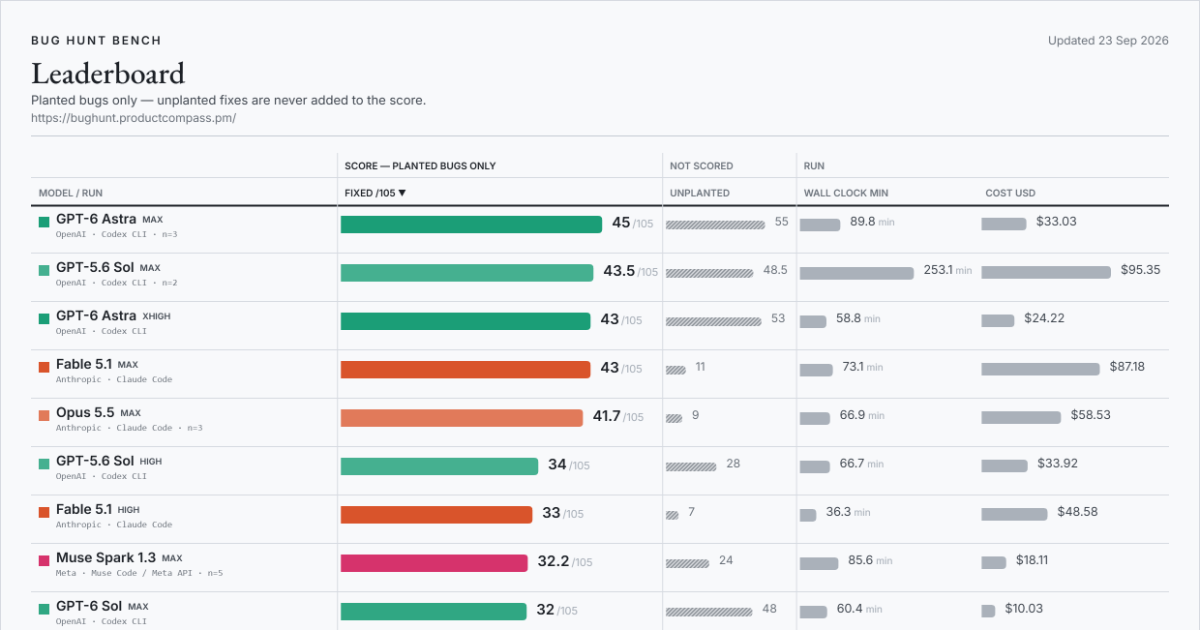
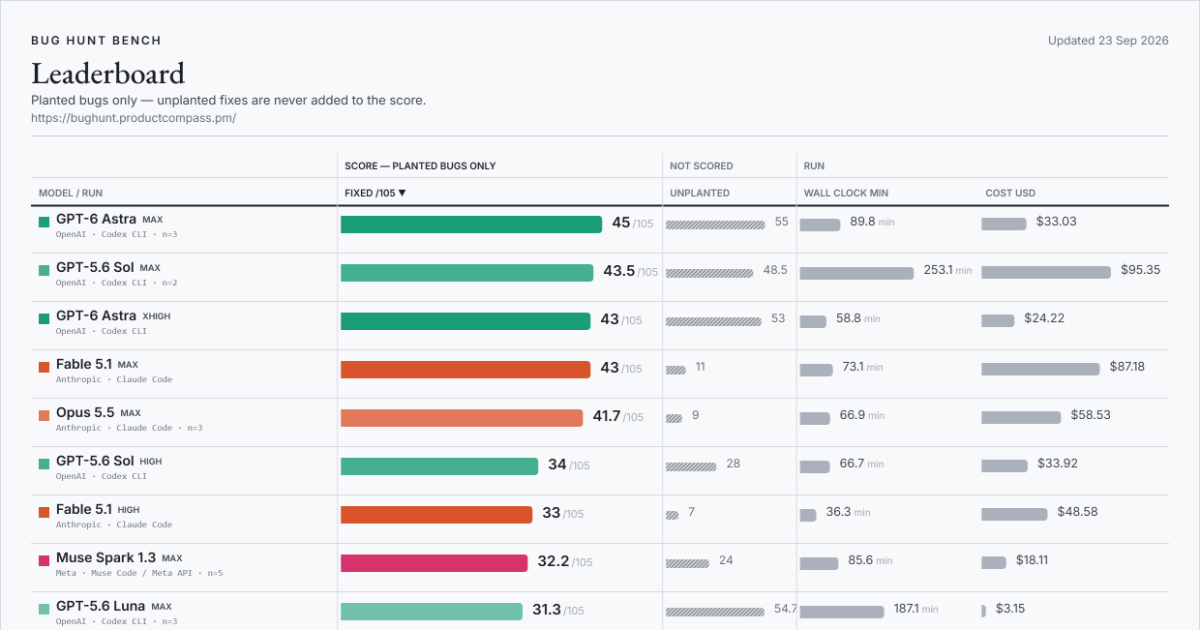
bug hunt bench: GPT-6 Sol (max effort) - mean of 2 (31/105)

diff --git a/index.html b/index.html
@@ -22,14 +22,14 @@
 <meta property="og:title" content="Bug Hunt Bench — frontier coding models against real planted bugs">
 <meta property="og:description" content="A blind-graded benchmark of frontier coding models on real bugs planted in two production codebases. The score counts planted bugs only; extra fixes are tracked separately and never added.">
 <meta property="og:url" content="https://bughunt.productcompass.pm/">
-<meta property="og:image" content="https://bughunt.productcompass.pm/og-image.png?v=2026-09-23-9b4f1916">
+<meta property="og:image" content="https://bughunt.productcompass.pm/og-image.png?v=2026-09-23-1ae479dc">
 <meta property="og:image:width" content="1200">
 <meta property="og:image:height" content="630">
 <meta property="og:image:alt" content="Bug Hunt Bench leaderboard">
 <meta name="twitter:card" content="summary_large_image">
 <meta name="twitter:title" content="Bug Hunt Bench — frontier coding models against real planted bugs">
 <meta name="twitter:description" content="A blind-graded benchmark of frontier coding models on real bugs planted in two production codebases. The score counts planted bugs only.">
-<meta name="twitter:image" content="https://bughunt.productcompass.pm/og-image.png?v=2026-09-23-9b4f1916">
+<meta name="twitter:image" content="https://bughunt.productcompass.pm/og-image.png?v=2026-09-23-1ae479dc">
 <meta name="twitter:creator" content="@PawelHuryn">
 
 <link rel="icon" href="/assets/favicon.svg" type="image/svg+xml">

diff --git a/method.html b/method.html
@@ -20,14 +20,14 @@
 <meta property="og:title" content="Method, caveats and definitions — Bug Hunt Bench">
 <meta property="og:description" content="How Bug Hunt Bench is run and graded, what the board cannot tell you, and what every column on it means.">
 <meta property="og:url" content="https://bughunt.productcompass.pm/method">
-<meta property="og:image" content="https://bughunt.productcompass.pm/og-image.png?v=2026-09-23-9b4f1916">
+<meta property="og:image" content="https://bughunt.productcompass.pm/og-image.png?v=2026-09-23-1ae479dc">
 <meta property="og:image:width" content="1200">
 <meta property="og:image:height" content="630">
 <meta property="og:image:alt" content="Bug Hunt Bench leaderboard">
 <meta name="twitter:card" content="summary_large_image">
 <meta name="twitter:title" content="Method, caveats and definitions — Bug Hunt Bench">
 <meta name="twitter:description" content="How Bug Hunt Bench is run and graded, what the board cannot tell you, and what every column on it means.">
-<meta name="twitter:image" content="https://bughunt.productcompass.pm/og-image.png?v=2026-09-23-9b4f1916">
+<meta name="twitter:image" content="https://bughunt.productcompass.pm/og-image.png?v=2026-09-23-1ae479dc">
 <meta name="twitter:creator" content="@PawelHuryn">
 
 <link rel="icon" href="/assets/favicon.svg" type="image/svg+xml">

diff --git a/results/run-notes.md b/results/run-notes.md
@@ -2,7 +2,7 @@
 
 Every row on the board, with the note and caveat it carries. Generated from `data/benchmark.json` by `bench_golive.py` - do not edit by hand.
 
-Updated Sep 23, 2026 · 127 rows from 195 scored runs. Superseded rows are listed last.
+Updated Sep 23, 2026 · 128 rows from 197 scored runs. Superseded rows are listed last.
 
 ## GPT-6 Astra (max effort) - mean of 3
 
@@ -74,14 +74,6 @@ Anthropic's Opus 5.5 at xhigh effort through Claude Code on the first-party API,
 
 THE DEEPEST REPLICATION ON THIS BOARD: FIVE RUNS OF ONE CONFIGURATION. Runs scored 33, 33, 35, 29 and 31 of 105 (repo 1: 14, 17, 15, 12, 13 - repo 2: 19, 16, 20, 17, 18). Mean 32.2, range 6. *** WHAT THE TWO EXTRA RUNS BOUGHT WAS AN ERROR BAR, NOT A SCORE. *** The mean moved 1.5 points, from 33.7 to 32.2. The RANGE went from 2 to 6. At n=3 this arm read as tight and well-behaved - 33, 33, 35. At n=5 it spans 29 to 35, which is wider than the gap between several adjacent rows here. The three-run version did not merely estimate the mean imprecisely; it understated how much this configuration varies, in the direction that made it look steadier than it is. Read 32.2 as an estimate with a known and fairly wide spread. *** THE HARNESS UPDATED ITSELF DURING THIS EXPERIMENT, AND TWO RUNS ARE SPLIT-VERSION. *** Muse Code polls a release channel and replaces its own binary. Run 1 ran Muse Code 1.1.1; runs 2-5 ran 1.2.1; and the repo-2 legs of runs 4 and 5 came up on 1.3.0. So those two runs were graded across two harness versions. There is no version pin in the launcher, the channel serves only the current release, and the previous binary is deleted on upgrade, so 1.2.1 cannot be restored and this is not repairable by re-running. Further drift is now suppressed. *** THE DRIFT IS NOT WHAT LOWERED THE SCORE, AND THE SPLIT IS WHAT SHOWS IT. *** The obvious worry is that runs 4 and 5 are low because 1.3.0 is worse. Two facts say otherwise. First, the drop lives on repo 1, where the harness never changed: all four of runs 2-5 ran 1.2.1 there and scored 17, 15, 12 and 13 - a spread of 5 on a single repo with the version held constant. Second, repo 2 shows no version effect at all: the 1.2.1 runs scored 16 and 20, and the two 1.3.0 runs scored 17 and 18, sitting inside that range rather than below it. The low runs are run-to-run variance. That the drift landed on the half where it cannot be doing the damage is luck, not design, and it is disclosed here rather than quietly dropped because the answer happened to be convenient. *** THE REGIME BEHIND THESE RUNS IS UNVERIFIED, NOT VERIFIED. *** CANNOT TELL (gbvb); CANNOT TELL (abhb) - the automated check reads context accounting out of transcripts and this harness reports none, so it cannot confirm the five runs shared a regime. Stated plainly because the alternative is implying a check that did not happen. *** WALL TIME IS AN UPPER BOUND AND IS NOT COMPARABLE ACROSS THE FIVE RUNS. *** Runs 1-3 ran their legs alone. Runs 4 and 5 were run concurrently with each other, a deliberate exception to the usual one-leg-per-provider rule, and their repo-2 legs also shared the machine with other work; every affected row says so itself. Contention can inflate a wall figure and cannot shrink it. Scores, tokens and cost are unaffected. *** THE FAILURE RATE IS PART OF THE PICTURE AND IS VISIBLE IN THE RECEIPTS. *** Runs 4 and 5 needed several attempts on repo 2. Three attempts died without producing a report because the account's subscription quota was exhausted mid-leg - the retry layer absorbed the rate-limit responses and the harness reported three different and all misleading causes, including two stream-idle timeouts and a suspected local network fault. Those attempts produced no report and no score, are NOT counted as low runs here, and cost 8.35 dollars between them. A leg that never finished is not a result. The five runs that did finish cost 90.55 dollars in total.
 
-## GPT-6 Sol (max effort)
-
-**32 / 105** · repo 1 18/45 · repo 2 14/60 · 48 unplanted · 60.4 min · $10.03 · `max` · Codex CLI · single run · 2026-09-23
-
-**Caveat.** ONE RUN, not a mean, on a model measured the night it shipped - and this board has measured a 13-point spread between two runs of a single identical max-effort configuration, so treat 32 as one draw. It also runs a Codex build one version newer than every other OpenAI row here, because the build the others use refuses this model; the harness is therefore not held fixed across that comparison. Cost is a list-rate estimate and a floor - the long-context surcharge is not modelled. The wall figure is contended.
-
-OpenAI's GPT-6 Sol at max effort through OpenAI's own Codex CLI, on a ChatGPT account - the same auth path as every other Sol, Astra, Terra and Luna row here, NOT the metered API. 32 of 105: 18 of 45 on repo 1 and 14 of 60 on repo 2, 48 genuine extras, 60.4 minutes, $10.03. ONE RUN, measured the night the model shipped. *** THE NEWER CHECKPOINT DOES NOT LEAD ITS OWN FAMILY HERE *** GPT-6 Astra scores 48 of 105 at max and 43 at xhigh on this same benchmark; GPT-5.6 Sol scores 42 at max. This row lands at 32, below all three, at a fraction of the cost - $10 against GPT-5.6 Sol's $70. A single run cannot settle a gap that size against a mean, but it is a large gap in the direction nobody would have guessed from the release order. *** IT KILLED AN ALL-TIME SURVIVOR *** one repo-1 bug, A6, had outlived every model in every scored run on this board until now - a settings-persistence ordering defect, where a preference was written to storage before the change it described had actually taken effect, so a switch that failed or was dismissed left the stored value and the running session disagreeing. The survivor count drops from 32 to 31. That is worth separating from the score: this row sits in the middle of the table and still opened ground nothing above it had touched. It is also a variance event, not a capability - survivor kills on this board have not reproduced on demand in later runs. *** IT FINDS A LOT OF THINGS NOBODY PLANTED *** 48 genuine extras - real defects in the repos that are not part of the planted set - is among the highest counts on this board, from a row in the middle of the scoring table. Extras are reported separately and never folded into the score, but a model that flags this many unplanted defects while fixing fewer planted ones is spending its attention somewhere the planted total cannot see. *** THIS ROW RUNS A DIFFERENT CLI BUILD FROM EVERY OTHER OPENAI ROW, UNAVOIDABLY *** the Codex build the rest of this board uses (0.154.0) refuses this model outright - 'The gpt-6-sol model is not supported when using Codex with a ChatGPT account'. 0.155.1 runs it on the same account, same auth, same machine, so the blocker was the client and not entitlement. There is no version of this measurement that holds the harness fixed against the other OpenAI rows; the choice was a one-version harness delta or no row at all. Read the comparison above with that in it. (The rejection message is generic - a deliberately fake slug returns it verbatim - so it is not evidence about any model's existence.) *** THE FIRST TWO ATTEMPTS AT THIS ROW WERE VOID, AND THE REASON IS WORTH KNOWING *** the arm was first pinned to npm's shim rather than the real executable. On Windows that shim resolves to a .cmd, running a .cmd makes the shell re-parse the whole argument list, and a NEWLINE ENDS THE COMMAND - so the model received the benchmark prompt's first line, the repo description, and none of the numbered instructions. Both legs launched, billed and exited 0 with nothing to show the harness: one edited code and wrote no report it had never been asked for, the other replied asking what to work on. Nothing in the leg's own output said the prompt was short. Those legs are kept in the ledger, voided and labelled. This row is a clean re-run of both repos afterwards. A third earlier attempt died on an unrelated fault in the CLI's sandbox setup, since fixed. *** COST IS A LIST ESTIMATE AND A FLOOR *** token counts at OpenAI's published short-context rates, $2 input, $0.20 cached, $10 output per million. Requests over 272K input bill 2x on input and cache and 1.5x on output, which is NOT modelled here, so any leg that crossed that line cost more than this figure says. The Codex CLI on a subscription exposes no per-run bill, hence `list`, comparable only to other list rows. *** THE JUDGE IS NOT THIS BOARD'S DEFAULT, BY RULE *** a model may never judge itself or a sibling, and the default Codex judge is an OpenAI model, so it is disqualified for this arm - as is every other first-party GPT checkpoint here, since the rule is about shared weights and not identity-knowledge. Both legs were judged by grok-4.5, blinded to the arm's identity. *** RECEIPTS *** Both legs exited 0 with a report written, run SEQUENTIALLY, one repo at a time. The run shared the laptop with legs from another vendor, which the wall marker discloses - scores, tokens and cost are untouched by that, only the clock.
-
 ## GPT-5.6 Terra (max effort)
 
 **32 / 105** · repo 1 16/45 · repo 2 16/60 · 45 unplanted · 159.7 min · $27.98 · `max` · Codex CLI · single run · 2026-08-27
@@ -103,6 +95,14 @@ Anthropic's Opus 5.5 at high effort through Claude Code on the first-party API, 
 **Caveat.** Three runs of an identical configuration spanning 30 to 33 of 105 - read the mean with that width in mind, not as a point. Cost is a TOKEN ESTIMATE at list rates, not a bill, and is comparable only to other list-priced rows. Runs shared the laptop with benchmark legs from other vendors, so wall figures are contended and biased upward; scores and cost are unaffected.
 
 GPT-5.6 Luna at max effort through OpenAI's own Codex CLI, published as the MEAN OF THREE INDEPENDENT RUNS. Runs scored 33, 30 and 31 of 105 (repo 1: 17, 16, 15 of 45 - repo 2: 16, 14, 16 of 60). Mean 31.3, spread 3. *** THIS SUPERSEDES THE MEAN OF TWO (31.5 of 105) *** a third independent run - held back earlier today by a Grok judge-bridge fault unrelated to Luna itself - completes the originally planned n=3. The mean moved from 31.5 to 31.3; the three runs span 30 to 33, and that span is the honest width of this measurement. *** WALL AND COST *** Walls 85.8, 254.3, 221.5 minutes, mean 187.2; cost $1.80, $3.85, $3.80, mean $3.15. COST IS A TOKEN ESTIMATE at OpenAI's published rates, not an invoice - the Codex CLI on a subscription does not expose a per-run bill, so this column is `list` and comparable only to other list rows. *** GENUINE EXTRAS *** 31, 57 and 76 across the three runs, mean 54.7 - real defects found in the repos that are not part of the planted set, rising noticeably across the replicates; reported because a model that finds bugs nobody planted is doing something the planted total cannot see, not folded into the scored total. *** THE TIER IS FIRST-PARTY AND THAT IS WHY IT CAN BE ASSERTED *** max is Luna's top tier on OpenAI's own endpoint, which validates and separates its effort levels rather than silently clamping an unknown string the way several third-party routes on this board do. *** THE JUDGE IS NOT THIS BOARD'S DEFAULT, BY RULE *** A model may never judge itself or a sibling, and this is an OpenAI model, so the default Codex judge is disqualified - and so is any other first-party GPT-5.6 checkpoint on this board (e.g. Sol, Terra), since the rule is about shared weights, not identity-knowledge alone. All six legs were judged by grok-4.5, blinded to the arm's identity. The runs themselves shared the machine with legs from other vendors, which the row's wall marker discloses; scores, tokens and cost are untouched by that - only the clock is. *** RECEIPTS *** All six legs exited 0. Legs SEQUENTIAL within every run.
+
+## GPT-6 Sol (max effort) - mean of 2
+
+**31 / 105** · repo 1 17/45 · repo 2 14/60 · 41 unplanted · 59.3 min · $9.10 · `max` · Codex CLI · mean of 2 runs · 2026-09-23
+
+**Caveat.** Two runs of an identical configuration scoring 32 and 30 of 105 - spread 2. Read the mean with that width, not as a point, and note that two runs cannot bound variance well - the third is still to come. It also runs a Codex build one version newer than every other OpenAI row here, because the build the others use refuses this model; the harness is therefore not held fixed across that comparison. Cost is a list-rate estimate and a floor - the long-context surcharge is not modelled. Wall figures are contended.
+
+OpenAI's GPT-6 Sol at max effort through OpenAI's own Codex CLI, on a ChatGPT account - the same auth path as every other Sol, Astra, Terra and Luna row here, NOT the metered API. Published as the MEAN OF TWO INDEPENDENT RUNS. Runs scored 32 and 30 of 105 (repo 1: 18, 16 of 45 - repo 2: 14, 14 of 60). Mean 31.0, spread 2. *** THIS SUPERSEDES GPT-6 SOL (MAX EFFORT) (32 OF 105) *** *** THE NEWER CHECKPOINT STILL DOES NOT LEAD ITS OWN FAMILY *** GPT-6 Astra scores 48 of 105 at max and 43 at xhigh on this same benchmark; GPT-5.6 Sol scores 42 at max. This row lands at 31.0, below all three, at a fraction of the cost. The single run that first showed this was one draw on a board that has measured a 13-point spread between two runs of one identical max-effort configuration - which is exactly why it was replicated rather than left to stand. *** THE REPLICATES ARE BYTE-IDENTICAL TO THE FIRST RUN *** same model string gpt-6-sol, same effort, same timeout, same pinned executable, same price table, same blind judge. Only the arm name differs, so the spread above is run-to-run variance and nothing else. *** IT FINDS A LOT OF THINGS NOBODY PLANTED *** 48 and 34 genuine extras across the runs, mean 41.0 - real defects in the repos that are not part of the planted set, among the highest counts on this board from a row in the middle of the scoring table. Extras are reported separately and never folded into the score, but a model that flags this many unplanted defects while fixing fewer planted ones is spending its attention somewhere the planted total cannot see. *** IT KILLED AN ALL-TIME SURVIVOR *** the first run fixed a planted bug that no scored pass by any model had ever fixed before - a settings-persistence ordering defect where the stored value is written before the live switch it is supposed to describe has landed. That is a first for this row and it stands regardless of where the mean settles. *** THIS ROW RUNS A DIFFERENT CLI BUILD FROM EVERY OTHER OPENAI ROW, UNAVOIDABLY *** the Codex build the rest of this board uses (0.154.0) refuses this model outright - 'The gpt-6-sol model is not supported when using Codex with a ChatGPT account'. 0.155.1 runs it on the same account, same auth, same machine, so the blocker was the client and not entitlement. There is no version of this measurement that holds the harness fixed against the other OpenAI rows; the choice was a one-version harness delta or no row at all. Read the comparison above with that in it. (The rejection message is generic - a deliberately fake slug returns it verbatim - so it is not evidence about any model's existence.) *** WALL AND COST *** Walls 60.4, 58.2 minutes, mean 59.3; cost $10.03, $8.17, mean $9.10. COST IS A LIST ESTIMATE AND A FLOOR - token counts at OpenAI's published short-context rates, $2 input, $0.20 cached, $10 output per million. Requests over 272K input bill 2x on input and cache and 1.5x on output, which is NOT modelled here, so any leg that crossed that line cost more than this figure says. The Codex CLI on a subscription exposes no per-run bill, hence `list`, comparable only to other list rows. *** THE JUDGE IS NOT THIS BOARD'S DEFAULT, BY RULE *** a model may never judge itself or a sibling, and the default Codex judge is an OpenAI model, so it is disqualified for this arm - as is every other first-party GPT checkpoint here, since the rule is about shared weights and not identity-knowledge. Every leg was judged by grok-4.5, blinded to the arm's identity. *** RECEIPTS *** All legs exited 0 with a report written, run SEQUENTIALLY, one repo at a time. The runs shared the laptop with legs from other vendors, which the wall marker discloses - scores, tokens and cost are untouched by that, only the clock.
 
 ## Union Alpha (stealth; free) - mean of 3
 
@@ -619,6 +619,16 @@ Meta's OWN agent driving Meta's OWN model on Meta's OWN endpoint, at the top of 
 **Superseded.** Superseded 2026-09-17 by the n=3 MEAN row. Nothing here is retracted: the 32 happened and this is its receipt, judged twice and agreed on bug-for-bug. Kept rather than deleted because a supersession is only legible next to the row it supersedes - and this one sat MID-RANGE of the three runs (32, against 34 and 26) yet still above the 30.7 mean, so a reader comparing against 32 was comparing against a slightly lucky draw rather than an outlier.
 
 REVEALED 2026-09-17, hours after this row went up: the stealth slug was unbiased/pareto. OpenRouter announced it directly, and said community detective work cut the stealth period short. The endpoint then returned 404 and every stealth slug left the model list. The row keeps the stealth name because the stealth endpoint is what was measured, and it now carries its real vendor. *** IT TIES GPT-5.6 Terra (max effort) EXACTLY: 16 of 45 and 16 of 60, the same split, for nothing in 32.7 minutes against $27.98 in 159.7. The tie is on the number and not on the work - the two runs share 23 of their 32 bugs, so nine on each side are bugs the other missed. *** PARETO IS NOT A MODEL, IT IS A COMPOSITE - AND THAT IS THE WHOLE STORY OF THIS ROW. Unbiased describes it as running several frontier and open-source models in parallel on every request and selecting or synthesising the output rather than routing to one. That is measurable, and it was measured twice. BEFORE the reveal, from readings taken while the slug was live: a prefix-free doubling probe returned 160 and 200 tokens for one fixed 437-character passage - a 40-token gap where the entire spread across ten different labs on that same passage is 82 tokens, with the hidden prefix cancelled by construction and no special-token markers present for a stripping state to explain. One model has one vocabulary, so this had to be more than one backend. AFTER the reveal, against the live endpoint: the same passage returns 138, 160 AND 200, and 8 of 10 corpus passages come back with two or three different counts. The prediction and the confirmation both hold. WHAT THE WIRE WORK GOT RIGHT AND WRONG: the exclusions were sound as far as they went - Anthropic, xAI, Google and Meta are not the developer - but the question was malformed, because the developer is an aggregator and the weights belong to whoever sits on the panel for that call. An earlier version of this note leaned toward OpenAI on residual evidence. That lean was withdrawn on 2026-09-17, a day before the reveal, and the reveal says it was answering the wrong question rather than answering it wrongly. READ THE TOKEN COLUMNS AS A SELF-REPORT AND NOTHING FIRMER - more so now than when that caveat was written, because the counter behind them belongs to whichever panel member answered: the same fixed string, cache-busted, came back at about 200 prompt tokens with cached_tokens=0 or at 169-172 with cached_tokens=12. THE RUN WAS GENUINELY FREE AND WHAT IT MEASURED WAS EXACTLY ZERO, but the preview has ended: unbiased/pareto now lists at $2.50 per million prompt, $7.50 completion, $0.25 cached read. Repricing this run's own measured token counts at those rates gives $3.30 - against the $27.98 that GPT-5.6 Terra (max effort) actually billed for the identical 16+16 split. So the cell reads $3.30 and is marked cost_list, which the glossary defines as a token-count estimate at published list rates and not a bill. It was $0.00 until the preview ended; an honest zero then stopped supporting the only comparison the column exists for, so the figure was repriced generator-side. Nothing was actually spent, and the published receipts still say so. The comparison survives the preview ending either way, at 8.5x cheaper instead of free. *** THE SLUG SERVED MORE THAN ONE VOCABULARY. *** Predicted before the reveal and confirmed against the revealed endpoint: at least three backends answer to this slug. The benchmark runs themselves do NOT look mixed: the three replicates agree at mean Jaccard 0.628 on their fixed-bug sets against a board median of 0.632 over 24 replicate families, which is ordinary. The probe evidence suggests the router was length-sensitive, so short probes and long agentic runs need not have landed on the same backend. The score is what was measured; that it describes a single model is not something this board can claim. *** THE JUDGE IS NOT THIS BOARD'S DEFAULT, AND WHAT THAT COST WAS MEASURED RATHER THAN ASSERTED. A model may not judge itself or a sibling; with the lab unidentified the routing could not be read off a vendor at all, so the scoring pass ran on grok-4.6. The reveal vindicates that more strongly than the reasoning given for it: a composite has no single vendor to check a judge against, and third-party analysis of the panel places GPT-6 Astra on the escalation path - the default judge's own family, inside the thing being judged. Every other row here was judged by codex, and the measured judge-to-judge spread on one transcript is about 2 points of 105, so this run was ALSO judged by codex into a separate scratch pass that could not redefine the scoring one. The two judges selected the SAME 32 bugs - identical sets on both repos, not merely equal counts. The number does not depend on who read it. *** THERE IS NO EFFORT DIAL ON THIS ROUTE. supported_parameters carries no reasoning field of any kind, the model returns reasoning_tokens=0 with empty reasoning_details on a prompt that makes every reasoning model think, and an invented tier is refused by the gateway in 0.2s without ever reaching the provider. So effort is 'default' and deliberately not 'inert_default': nothing was asserted, and there was no dial to probe. *** ONE RUN, AND THE ROUTE IS VISIBLY NOISY. Six byte-identical temperature-0 calls came back bimodal - about 8s and about 32s, 20 to 218 completion tokens, a 10.9x spread inside one condition. Two replicates are running; when they land, their mean supersedes this row.
+
+## GPT-6 Sol (max effort)
+
+**32 / 105** · repo 1 18/45 · repo 2 14/60 · 48 unplanted · 60.4 min · $10.03 · `max` · Codex CLI · single run · 2026-09-23
+
+**Superseded.** Superseded 2026-09-23 by the mean of 2 (31.0 of 105). This row reported 32 of 105 from a single run, published the night the model shipped. The replicates are byte-identical re-runs; across 2 the runs span 30 to 32. Nothing here is retracted - it is kept as the receipt for what the board showed before the extra run.
+
+**Caveat.** ONE RUN, not a mean, on a model measured the night it shipped - and this board has measured a 13-point spread between two runs of a single identical max-effort configuration, so treat 32 as one draw. It also runs a Codex build one version newer than every other OpenAI row here, because the build the others use refuses this model; the harness is therefore not held fixed across that comparison. Cost is a list-rate estimate and a floor - the long-context surcharge is not modelled. The wall figure is contended.
+
+OpenAI's GPT-6 Sol at max effort through OpenAI's own Codex CLI, on a ChatGPT account - the same auth path as every other Sol, Astra, Terra and Luna row here, NOT the metered API. 32 of 105: 18 of 45 on repo 1 and 14 of 60 on repo 2, 48 genuine extras, 60.4 minutes, $10.03. ONE RUN, measured the night the model shipped. *** THE NEWER CHECKPOINT DOES NOT LEAD ITS OWN FAMILY HERE *** GPT-6 Astra scores 48 of 105 at max and 43 at xhigh on this same benchmark; GPT-5.6 Sol scores 42 at max. This row lands at 32, below all three, at a fraction of the cost - $10 against GPT-5.6 Sol's $70. A single run cannot settle a gap that size against a mean, but it is a large gap in the direction nobody would have guessed from the release order. *** IT KILLED AN ALL-TIME SURVIVOR *** one repo-1 bug, A6, had outlived every model in every scored run on this board until now - a settings-persistence ordering defect, where a preference was written to storage before the change it described had actually taken effect, so a switch that failed or was dismissed left the stored value and the running session disagreeing. The survivor count drops from 32 to 31. That is worth separating from the score: this row sits in the middle of the table and still opened ground nothing above it had touched. It is also a variance event, not a capability - survivor kills on this board have not reproduced on demand in later runs. *** IT FINDS A LOT OF THINGS NOBODY PLANTED *** 48 genuine extras - real defects in the repos that are not part of the planted set - is among the highest counts on this board, from a row in the middle of the scoring table. Extras are reported separately and never folded into the score, but a model that flags this many unplanted defects while fixing fewer planted ones is spending its attention somewhere the planted total cannot see. *** THIS ROW RUNS A DIFFERENT CLI BUILD FROM EVERY OTHER OPENAI ROW, UNAVOIDABLY *** the Codex build the rest of this board uses (0.154.0) refuses this model outright - 'The gpt-6-sol model is not supported when using Codex with a ChatGPT account'. 0.155.1 runs it on the same account, same auth, same machine, so the blocker was the client and not entitlement. There is no version of this measurement that holds the harness fixed against the other OpenAI rows; the choice was a one-version harness delta or no row at all. Read the comparison above with that in it. (The rejection message is generic - a deliberately fake slug returns it verbatim - so it is not evidence about any model's existence.) *** THE FIRST TWO ATTEMPTS AT THIS ROW WERE VOID, AND THE REASON IS WORTH KNOWING *** the arm was first pinned to npm's shim rather than the real executable. On Windows that shim resolves to a .cmd, running a .cmd makes the shell re-parse the whole argument list, and a NEWLINE ENDS THE COMMAND - so the model received the benchmark prompt's first line, the repo description, and none of the numbered instructions. Both legs launched, billed and exited 0 with nothing to show the harness: one edited code and wrote no report it had never been asked for, the other replied asking what to work on. Nothing in the leg's own output said the prompt was short. Those legs are kept in the ledger, voided and labelled. This row is a clean re-run of both repos afterwards. A third earlier attempt died on an unrelated fault in the CLI's sandbox setup, since fixed. *** COST IS A LIST ESTIMATE AND A FLOOR *** token counts at OpenAI's published short-context rates, $2 input, $0.20 cached, $10 output per million. Requests over 272K input bill 2x on input and cache and 1.5x on output, which is NOT modelled here, so any leg that crossed that line cost more than this figure says. The Codex CLI on a subscription exposes no per-run bill, hence `list`, comparable only to other list rows. *** THE JUDGE IS NOT THIS BOARD'S DEFAULT, BY RULE *** a model may never judge itself or a sibling, and the default Codex judge is an OpenAI model, so it is disqualified for this arm - as is every other first-party GPT checkpoint here, since the rule is about shared weights and not identity-knowledge. Both legs were judged by grok-4.5, blinded to the arm's identity. *** RECEIPTS *** Both legs exited 0 with a report written, run SEQUENTIALLY, one repo at a time. The run shared the laptop with legs from another vendor, which the wall marker discloses - scores, tokens and cost are untouched by that, only the clock.
 
 ## Opus 5.5 (high effort) - mean of 2
 

diff --git a/README.md b/README.md
@@ -9,7 +9,7 @@ If the numbers save you a benchmark run of your own, **star this repo** — that
 <!-- leaderboard:start -->
 ![Bug Hunt Bench leaderboard, the featured runs, updated Sep 23, 2026](assets/leaderboard.png?v=2026-09-23-b4bb1590)
 
-**Updated Sep 23, 2026 · 127 rows from 195 scored runs · 37 models · 31 of 105 bugs have never been fixed by any model.**
+**Updated Sep 23, 2026 · 128 rows from 197 scored runs · 37 models · 31 of 105 bugs have never been fixed by any model.**
 
 **Current leader:** GPT-6 Astra at `max` effort — **45 / 105** (22/45 on repo 1, 23/60 on repo 2).
 
@@ -29,10 +29,10 @@ If the numbers save you a benchmark run of your own, **star this repo** — that
 | 10 | GPT-5.6 Sol | Codex CLI | high | 1 | **34** | 13 | 21 | 28 | 67 min | $33.92 | 2026-07-31 |
 | 11 | Fable 5.1 | Claude Code | high | 1 | **33** | 15 | 18 | 7 | 36 min | $48.58 | 2026-09-01 |
 | 12 | Muse Spark 1.3 | Muse Code / Meta API | max | 5 | **32.2** | 14.2 | 18 | 24 | 86 min | $18.11 | 2026-09-17 |
-| 13 | GPT-6 Sol | Codex CLI | max | 1 | **32** | 18 | 14 | 48 | 60 min | $10.03 | 2026-09-23 |
-| 14 | GPT-5.6 Terra | Codex CLI | max | 1 | **32** | 16 | 16 | 45 | 160 min | $27.98 | 2026-08-27 |
-| 15 | Opus 5.5 | Claude Code | high | 3 | **31.7** | 13 | 18.7 | 10.7 | 24 min | $22.25 | 2026-09-23 |
-| 16 | GPT-5.6 Luna | Codex CLI | max | 3 | **31.3** | 16 | 15.3 | 54.7 | 187 min | $3.15 | 2026-09-22 |
+| 13 | GPT-5.6 Terra | Codex CLI | max | 1 | **32** | 16 | 16 | 45 | 160 min | $27.98 | 2026-08-27 |
+| 14 | Opus 5.5 | Claude Code | high | 3 | **31.7** | 13 | 18.7 | 10.7 | 24 min | $22.25 | 2026-09-23 |
+| 15 | GPT-5.6 Luna | Codex CLI | max | 3 | **31.3** | 16 | 15.3 | 54.7 | 187 min | $3.15 | 2026-09-22 |
+| 16 | GPT-6 Sol | Codex CLI | max | 2 | **31** | 17 | 14 | 41 | 59 min | $9.10 | 2026-09-23 |
 | 17 | Pareto (ex-Union Alpha) | Claude Code / OpenRouter | default | 3 | **30.7** | 16 | 14.7 | 10.3 | 38 min | $4.81 | 2026-09-17 |
 | 18 | Opus 5.5 | Claude Code | medium | 3 | **30.3** | 12.7 | 17.7 | 13.3 | 17 min | $15.68 | 2026-09-23 |
 | 19 | GPT-5.6 Sol | Codex CLI | medium | 1 | **29** | 13 | 16 | 24 | 48 min | $15.77 | 2026-09-06 |
@@ -105,7 +105,7 @@ If the numbers save you a benchmark run of your own, **star this repo** — that
 Extras are real, unplanted defects a model fixed on the way; they are counted and never added to the score. Costs are token estimates at published list rates unless tagged **bill** (an actual invoice or credits delta) or **floor** (a reconstructed lower bound). `default` effort means the serving path had no working effort dial; *ran lower* marks a run whose CLI quietly replaced the requested tier. Wall clock is repo 1 plus repo 2 agent time, dependency install excluded.
 Every row's full note, caveat and supersession history is in [results/run-notes.md](https://github.com/phuryn/bug-hunt-bench/blob/main/results/run-notes.md); the runs behind each one are in the metrics CSVs.
 
-45 superseded re-runs stay in the CSVs and on the [live board](https://bughunt.productcompass.pm/?preset=all) but are left off this table.
+46 superseded re-runs stay in the CSVs and on the [live board](https://bughunt.productcompass.pm/?preset=all) but are left off this table.
 <!-- leaderboard:end -->
 
 ## What Bug Hunt Bench is
